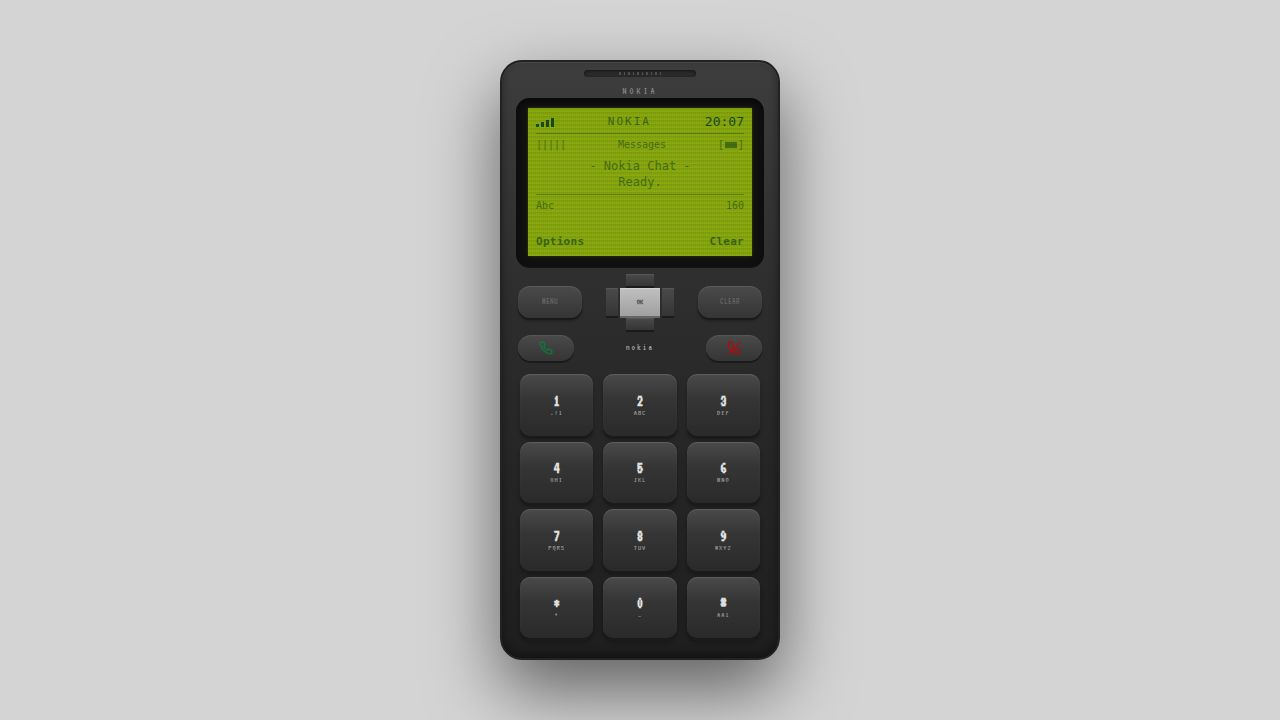
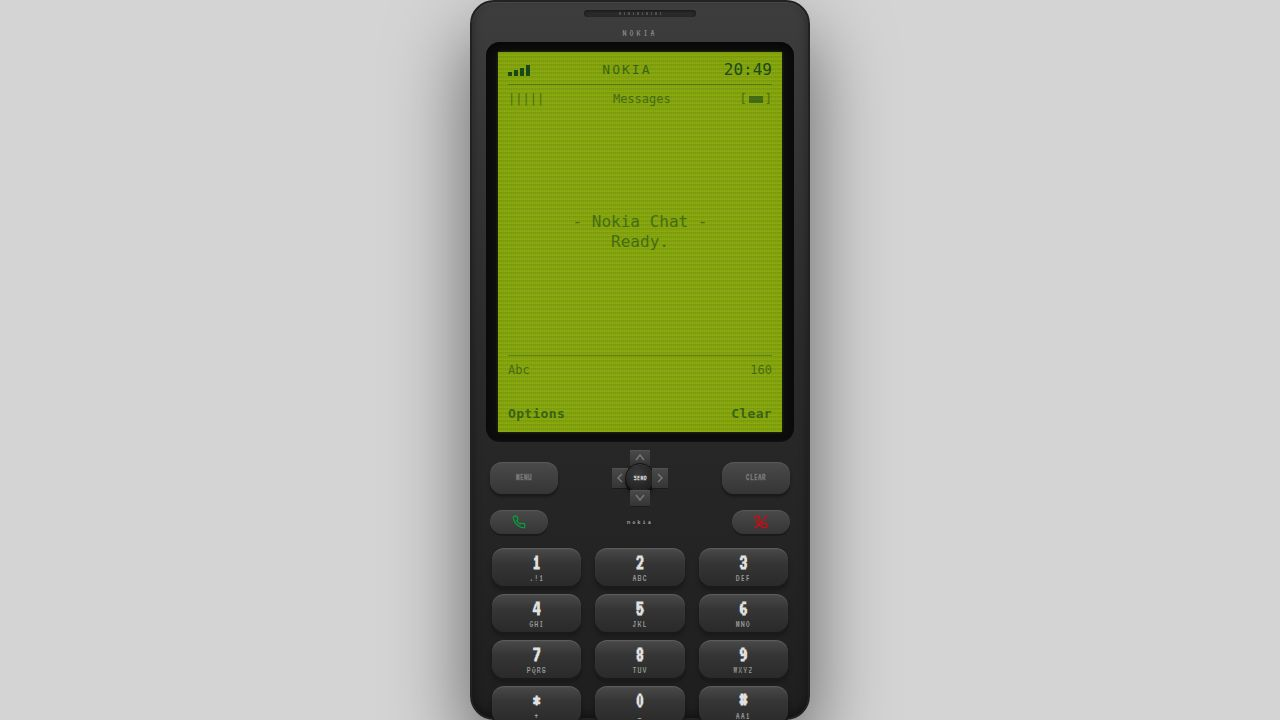
Add an animated boot sequence and visual polish to the phone interface
Introduces a new `BootSequence` component with CSS animations for a startup-like intro. Updates `NokiaPhone.tsx` to conditionally render `BootSequence` or `LcdScreen` based on the `booted` state. Modifies `ChatMessages.tsx` to apply a `msg-pop-in` animation to incoming messages and adjusts initial empty state text. Enhances `index.css` with new CSS animations (`boot-letter-pop`, `boot-tagline-fade`, `boot-bar-rise`, `boot-batt-fill`, `led-pulse`, `lcd-warmup`, `msg-pop`) and styling for visual elements like bevels, buttons, and LEDs. Adds an ambient glow effect and adjusts screen housing styling in `NokiaPhone.tsx`. Updates `agent_assets_metadata.toml` with a new screenshot.

Replit-Commit-Author: Agent
Replit-Commit-Session-Id: 063fdbec-1949-4359-a9ac-143be45ecfb2
Replit-Commit-Checkpoint-Type: full_checkpoint
Replit-Commit-Event-Id: 7b1c4251-cf5d-42fd-91fb-8445ad66a499
Replit-Commit-Screenshot-Url: https://storage.googleapis.com/screenshot-production-us-central1/3fc32bd4-ccce-487a-893d-e5bceb90b40a/063fdbec-1949-4359-a9ac-143be45ecfb2/F7rfeDS
Replit-Helium-Checkpoint-Created: true

Changed region(s): [[0.3438, 0.0, 0.6562, 1.0]]

diff --git a/artifacts/nokia-chatbot/src/pages/NokiaPhone.tsx b/artifacts/nokia-chatbot/src/pages/NokiaPhone.tsx
@@ -1,5 +1,7 @@
+import { useState, useCallback, useEffect } from "react";
 import LcdScreen from "@/components/LcdScreen";
 import Keypad from "@/components/Keypad";
+import BootSequence from "@/components/BootSequence";
 import { useChat } from "@/hooks/useChat";
 import { useT9 } from "@/hooks/useT9";
 
@@ -15,6 +17,15 @@ export default function NokiaPhone() {
     confirmCurrentChar,
   } = useT9();
 
+  const [booted, setBooted] = useState(false);
+  const [screenLit, setScreenLit] = useState(false);
+
+  const handleBootComplete = useCallback(() => {
+    setBooted(true);
+    // LCD warm-up glow after boot
+    setTimeout(() => setScreenLit(true), 100);
+  }, []);
+
   const handleSend = () => {
     confirmCurrentChar();
     if (text.trim()) {
@@ -28,8 +39,20 @@ export default function NokiaPhone() {
       className="min-h-[100dvh] w-full flex items-center justify-center bg-neutral-300 overflow-hidden select-none"
       style={{ fontFamily: "'VT323', monospace" }}
     >
+      {/* Ambient backdrop glow behind phone */}
+      <div className="absolute inset-0 flex items-center justify-center pointer-events-none">
+        <div className="w-[360px] h-[740px] rounded-[28px] bg-gradient-to-b from-[#8bac0f]/[0.04] to-transparent blur-3xl" />
+      </div>
+
       {/* Nokia Body — 340 x 720, fits vertical mobile */}
       <div className="relative nokia-1100-body">
+        {/* Metallic side bevel strip */}
+        <div className="absolute top-[40px] bottom-[20px] -left-[3px] w-[4px] nokia-side-bevel rounded-l-[4px]" />
+        <div className="absolute top-[40px] bottom-[20px] -right-[3px] w-[4px] nokia-side-bevel rounded-r-[4px]" />
+
+        {/* Side button (power / volume) */}
+        <div className="absolute top-[180px] -left-[4px] w-[3px] h-[28px] nokia-side-btn rounded-l-[2px]" />
+
         {/* Speaker grille */}
         <div className="absolute top-[8px] left-1/2 -translate-x-1/2 w-28 h-[7px] rounded-full bg-[#2a2a2a] overflow-hidden flex items-center justify-center gap-[3px] nokia-speaker">
           {Array.from({ length: 10 }).map((_, i) => (
@@ -42,17 +65,26 @@ export default function NokiaPhone() {
           NOKIA
         </div>
 
+        {/* Power LED — pulses when AI is typing */}
+        <div className="absolute top-[22px] right-[20px] w-[5px] h-[5px] rounded-full">
+          <div className={`w-full h-full rounded-full ${isTyping ? 'nokia-led-pulse' : 'bg-[#333]'}`} />
+        </div>
+
         {/* Screen housing — generous but not overwhelming */}
-        <div className="absolute top-[40px] left-[14px] right-[14px] h-[400px] bg-[#0d0d0d] rounded-[14px] nokia-screen-housing">
-          <div className="absolute top-[10px] left-[12px] right-[12px] bottom-[10px]">
-            <LcdScreen
-              messages={messages}
-              isTyping={isTyping}
-              t9Text={text}
-              t9ComposingChar={composingChar}
-              t9Mode={mode}
-              isReady={isReady}
-            />
+        <div className="absolute top-[40px] left-[14px] right-[14px] h-[400px] bg-[#0d0d0d] rounded-[14px] nokia-screen-housing overflow-hidden">
+          <div className={`absolute top-[10px] left-[12px] right-[12px] bottom-[10px] ${screenLit ? 'lcd-warmup' : ''}`}>
+            {!booted ? (
+              <BootSequence onComplete={handleBootComplete} />
+            ) : (
+              <LcdScreen
+                messages={messages}
+                isTyping={isTyping}
+                t9Text={text}
+                t9ComposingChar={composingChar}
+                t9Mode={mode}
+                isReady={isReady}
+              />
+            )}
           </div>
         </div>
 

diff --git a/artifacts/nokia-chatbot/src/index.css b/artifacts/nokia-chatbot/src/index.css
@@ -120,9 +120,30 @@
   box-shadow:
     0 35px 80px rgba(0,0,0,0.55),
     inset 0 1px 1px rgba(255,255,255,0.08),
-    inset 0 -4px 8px rgba(0,0,0,0.4);
+    inset 0 -4px 8px rgba(0,0,0,0.4),
+    /* Subtle ambient Nokia-green LED glow from screen bleed */
+    0 0 40px rgba(139, 172, 15, 0.04),
+    /* 3D metallic rim */
+    0 0 0 1px rgba(255,255,255,0.04);
   border: 2px solid #222;
   position: relative;
+}
+
+/* Metallic side bevel strips */
+.nokia-side-bevel {
+  background: linear-gradient(90deg,
+    rgba(100,100,100,0.3) 0%,
+    rgba(60,60,60,0.1) 40%,
+    rgba(40,40,40,0) 100%
+  );
+}
+
+/* Side power/volume button */
+.nokia-side-btn {
+  background: linear-gradient(180deg, #555 0%, #333 100%);
+  box-shadow:
+    inset 0 1px 1px rgba(255,255,255,0.1),
+    -1px 0 2px rgba(0,0,0,0.3);
 }
 
 /* Screen housing */
@@ -313,4 +334,88 @@
 }
 .scrollbar-hide::-webkit-scrollbar {
   display: none;
+}
+
+/* ======================== */
+/*   BOOT SEQUENCE ANIMS    */
+/* ======================== */
+
+@keyframes boot-letter-pop {
+  0% { opacity: 0; transform: translateY(12px) scale(0.85); }
+  60% { opacity: 1; transform: translateY(-2px) scale(1.02); }
+  100% { opacity: 1; transform: translateY(0) scale(1); }
+}
+
+.boot-letter-pop {
+  animation: boot-letter-pop 400ms ease-out forwards;
+  opacity: 0;
+}
+
+@keyframes boot-tagline-fade {
+  0% { opacity: 0; transform: translateY(6px); }
+  100% { opacity: 0.55; transform: translateY(0); }
+}
+
+.boot-tagline-fade {
+  animation: boot-tagline-fade 600ms ease-out forwards;
+  opacity: 0;
+}
+
+@keyframes boot-bar-rise {
+  0% { transform: scaleY(0); opacity: 0; }
+  100% { transform: scaleY(1); opacity: 1; }
+}
+
+.boot-bar-rise {
+  animation: boot-bar-rise 400ms ease-out forwards;
+  transform: scaleY(0);
+}
+
+@keyframes boot-batt-fill {
+  0% { width: 0; }
+  100% { width: calc(100% - 2px); }
+}
+
+.boot-batt-fill {
+  animation: boot-batt-fill 800ms ease-out forwards;
+  width: 0;
+}
+
+/* ======================== */
+/*   POWER LED              */
+/* ======================== */
+
+@keyframes led-pulse {
+  0%, 100% { background: #1a4a1a; box-shadow: 0 0 4px #1a4a1a, 0 0 8px rgba(26,74,26,0.4); }
+  50% { background: #2a6a2a; box-shadow: 0 0 6px #2a6a2a, 0 0 12px rgba(42,106,42,0.6); }
+}
+
+.nokia-led-pulse {
+  animation: led-pulse 800ms ease-in-out infinite;
+}
+
+/* ======================== */
+/*   SCREEN WARM-UP GLOW    */
+/* ======================== */
+
+@keyframes screen-warmup {
+  0% { filter: brightness(0.3); }
+  100% { filter: brightness(1); }
+}
+
+.lcd-warmup {
+  animation: screen-warmup 400ms ease-out forwards;
+}
+
+/* ======================== */
+/*   MESSAGE ENTRY BOUNCE   */
+/* ======================== */
+
+@keyframes msg-pop {
+  0% { opacity: 0; transform: translateY(4px); }
+  100% { opacity: 1; transform: translateY(0); }
+}
+
+.msg-pop-in {
+  animation: msg-pop 200ms ease-out forwards;
 }

diff --git a/artifacts/nokia-chatbot/src/components/BootSequence.tsx b/artifacts/nokia-chatbot/src/components/BootSequence.tsx
@@ -1,0 +1,75 @@
+import { useState, useEffect } from "react";
+
+interface BootSequenceProps {
+  onComplete: () => void;
+}
+
+export default function BootSequence({ onComplete }: BootSequenceProps) {
+  const [step, setStep] = useState(0);
+
+  useEffect(() => {
+    const timers = [
+      setTimeout(() => setStep(1), 400),
+      setTimeout(() => setStep(2), 900),
+      setTimeout(() => setStep(3), 2200),
+      setTimeout(() => setStep(4), 3400),
+      setTimeout(() => setStep(5), 5200),
+      setTimeout(() => onComplete(), 6200),
+    ];
+    return () => timers.forEach(clearTimeout);
+  }, [onComplete]);
+
+  return (
+    <div
+      className="w-full h-full bg-[#8bac0f] relative flex flex-col items-center justify-center cursor-pointer"
+      onClick={onComplete}
+    >
+      <div className="absolute inset-0 z-20 lcd-scanlines pointer-events-none" />
+      <div className="absolute inset-0 z-10 lcd-pixel-grid pointer-events-none" />
+
+      <div
+        className={`relative z-30 flex flex-col items-center text-[#1a4a1a] font-mono transition-opacity duration-700 ${
+          step >= 5 ? "opacity-0" : ""
+        }`}
+      >
+        {/* NOKIA logo */}
+        <div className={`flex gap-[3px] text-[40px] font-bold tracking-[8px] ${step >= 2 ? "" : "invisible"}`}>
+          {"NOKIA".split("").map((letter, i) => (
+            <span
+              key={i}
+              className="boot-letter-pop"
+              style={{ animationDelay: `${i * 120}ms` }}
+            >
+              {letter}
+            </span>
+          ))}
+        </div>
+
+        {/* Connecting People */}
+        <div className={`text-[16px] tracking-[4px] mt-[16px] boot-tagline-fade ${step >= 3 ? "" : "invisible"}`}>
+          Connecting People
+        </div>
+
+        {/* Signal + Battery */}
+        <div className={`flex items-center gap-[24px] mt-[32px] ${step >= 4 ? "" : "invisible"}`}>
+          <div className="flex items-end gap-[3px] h-[18px]">
+            {[4, 8, 12, 16].map((h, i) => (
+              <div
+                key={i}
+                className="w-[4px] bg-[#1a4a1a] boot-bar-rise"
+                style={{ height: `${h}px`, animationDelay: `${i * 200}ms` }}
+              />
+            ))}
+          </div>
+          <div className="flex items-center gap-[4px] text-[12px]">
+            <span>Batt</span>
+            <div className="w-[20px] h-[9px] border border-[#1a4a1a] relative overflow-hidden">
+              <div className="absolute top-[1px] left-[1px] bottom-[1px] bg-[#1a4a1a] boot-batt-fill" />
+            </div>
+            <span>OK</span>
+          </div>
+        </div>
+      </div>
+    </div>
+  );
+}

diff --git a/artifacts/nokia-chatbot/src/components/ChatMessages.tsx b/artifacts/nokia-chatbot/src/components/ChatMessages.tsx
@@ -21,9 +21,9 @@ export default function ChatMessages({
 
   if (messages.length === 0) {
     return (
-      <div className="flex-1 flex flex-col items-center justify-center text-center opacity-60 text-[16px]">
-        <div>- Nokia Chat -</div>
-        <div>Ready.</div>
+      <div className="flex-1 flex flex-col items-center justify-center text-center text-[16px]">
+        <div className="opacity-70">- Nokia Chat -</div>
+        <div className="opacity-50 text-[14px] mt-[2px]">Ready.</div>
       </div>
     );
   }
@@ -34,7 +34,7 @@ export default function ChatMessages({
       className="flex-1 overflow-y-auto overflow-x-hidden flex flex-col scrollbar-hide"
     >
       {messages.map((msg) => (
-        <div key={msg.id} className="mb-[3px] leading-[20px]">
+        <div key={msg.id} className="mb-[3px] leading-[20px] msg-pop-in">
           {msg.role === "user" ? (
             <div className="text-[#1a4a1a]">
               <span className="opacity-50">&gt; </span>
